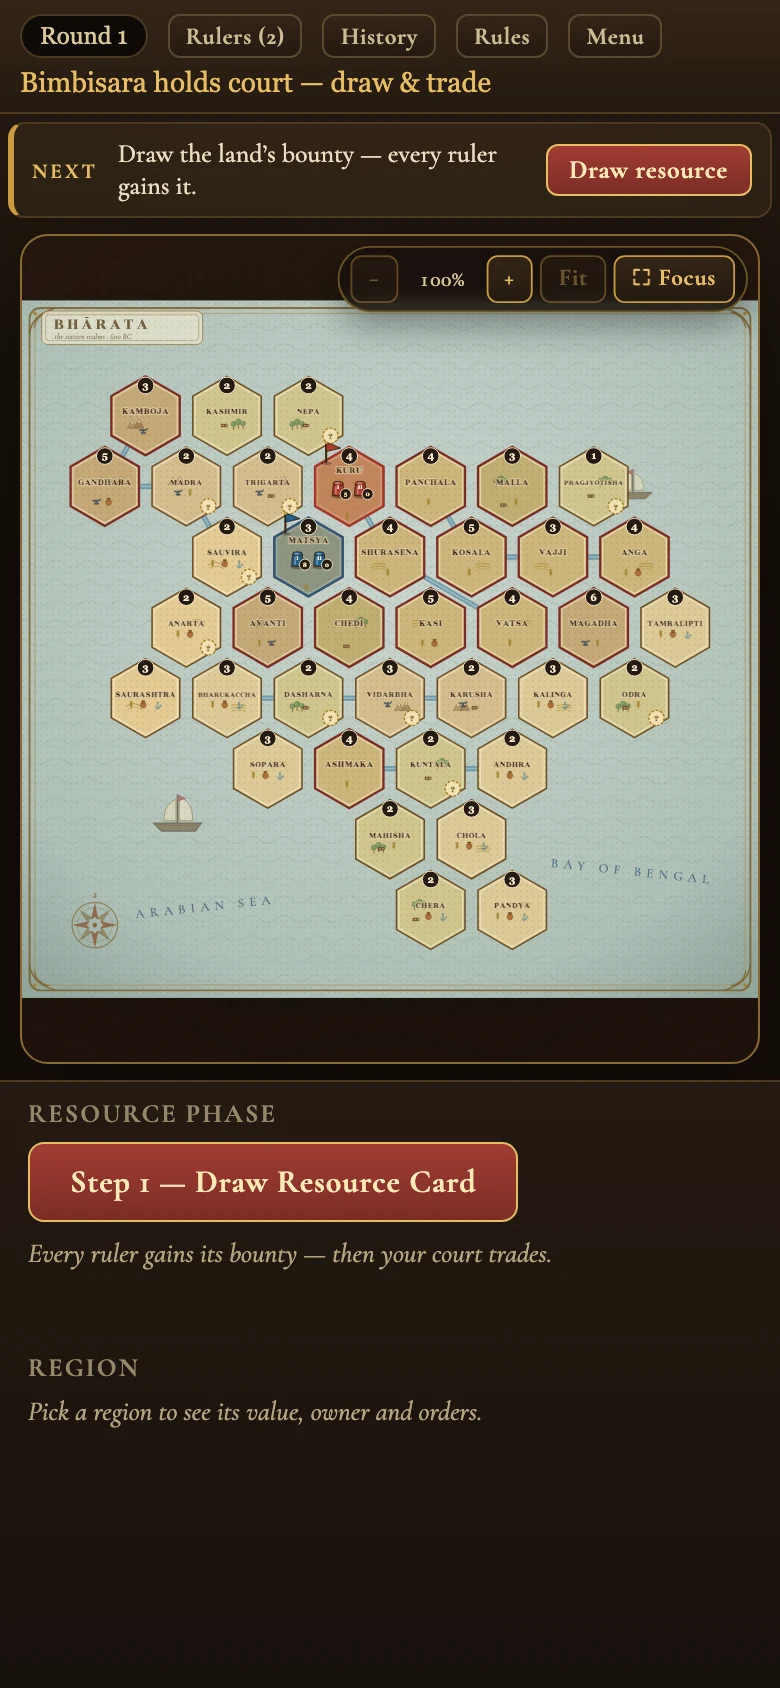
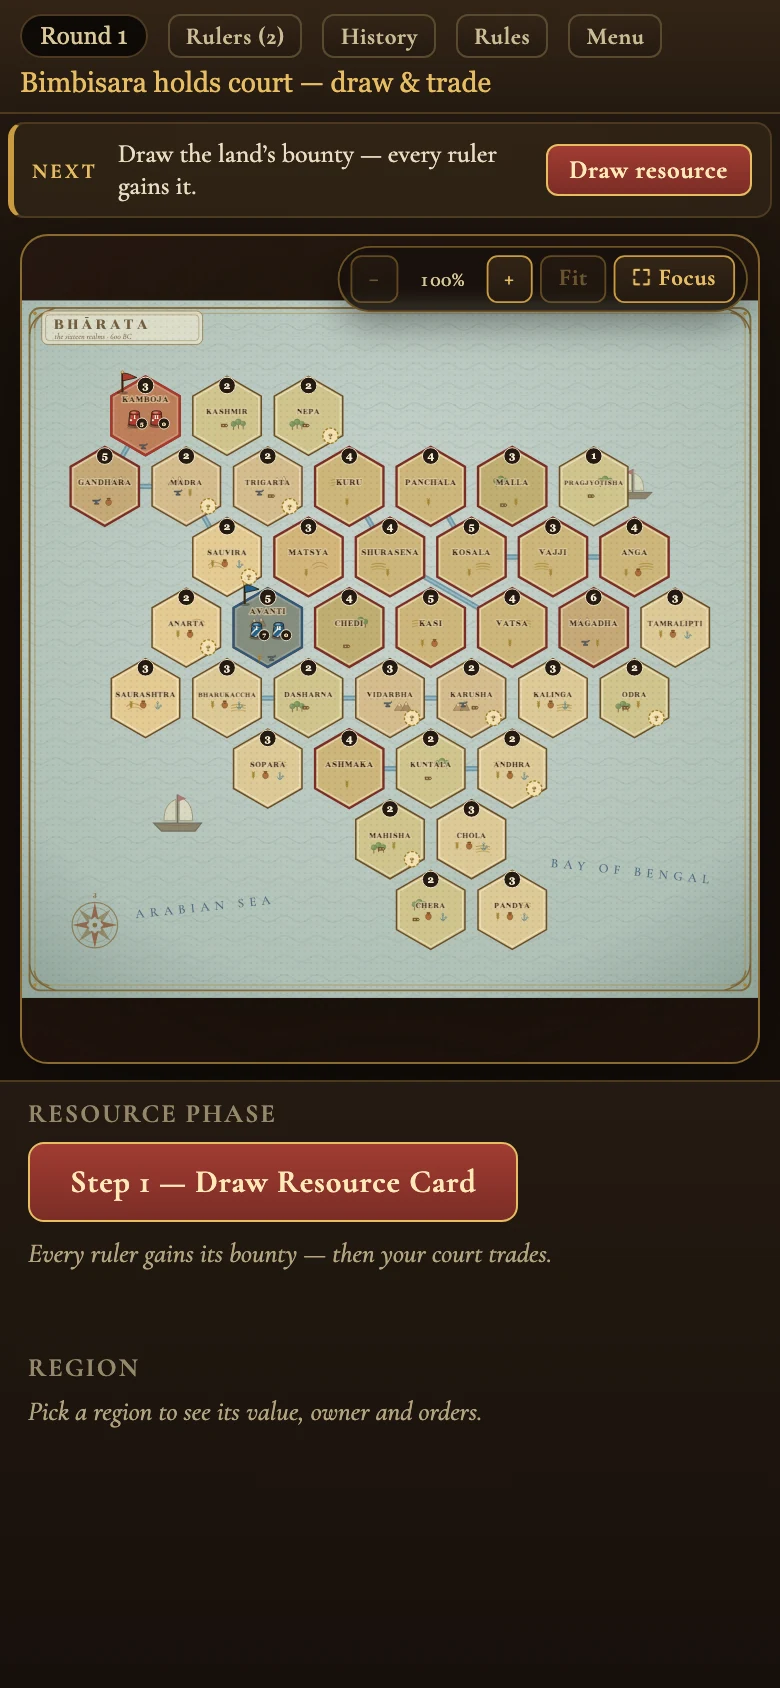
feat(a11y): seat patterns on pawns, co-rule clarity, H/? shortcuts
- eight bold pawn patterns; reduce specular stripe to a glint
- shared chip/kingdom line + rules section for co-ruled kingdoms
- fix army-cost and room-code guide text
- H history, ? rules, Esc closes; ignore inputs/modals
- regenerate visual sheet and screenshots; 15 journeys

Closes #43

diff --git a/client/ui/RulesGuide.tsx b/client/ui/RulesGuide.tsx
@@ -1,8 +1,17 @@
-import React from 'react'
+import React, { useEffect } from 'react'
 import { ABILITIES, PERSONALITIES } from '../../shared/data'
 import { Ico } from './icons'
 
 export function RulesGuide(props: { onClose?: () => void }) {
+  useEffect(() => {
+    if (!props.onClose) return
+    const onKey = (e: KeyboardEvent) => {
+      if (e.key === 'Escape') props.onClose?.()
+    }
+    window.addEventListener('keydown', onKey)
+    return () => window.removeEventListener('keydown', onKey)
+  }, [props.onClose])
+
   return (
     <div className="modal-backdrop" onClick={props.onClose}>
       <div className="modal rules-guide" onClick={(e) => e.stopPropagation()}>
@@ -22,7 +31,7 @@ export function RulesGuide(props: { onClose?: () => void }) {
           <li>
             <b>Resource</b> — draw & flip one resource card; <i>every</i> ruler gains what it grants. Then (only
             you): sell resources for coins (2 resources = 1 coin), sell trade objects for 2 coins each if you
-            rule an export harbor ⚓, and recruit army cards (3 coins each) into Army I or II.
+            rule an export harbor ⚓, and recruit army cards (2 coins each by default) into your army.
           </li>
           <li>
             <b>Actions</b> — take 2 free actions (extras cost 1 coin):
@@ -61,11 +70,12 @@ export function RulesGuide(props: { onClose?: () => void }) {
           <span>Mahajanapada = a Great Kingdom (paid in army cards) · Province = paid in coins</span>
         </p>
 
-        <h3>Your two armies</h3>
+        <h3>Your armies</h3>
         <p>
-          Each ruler commands two armies as separate battle hands — Army I starts with your two beginning
-          cards, Army II starts empty until you reinforce it. If an army loses all its cards it is destroyed,
-          and respawns at your capital when you reinforce it again. Lose your capital? Retake it first.
+          In a 2–4 ruler game each ruler commands two armies as separate battle hands — Army I starts with your
+          two beginning cards, Army II starts empty until you reinforce it. In a 5–8 ruler game partners co-rule
+          a kingdom and each commands one army. If an army loses all its cards it is destroyed, and respawns at
+          your capital when you reinforce it again. Lose your capital? Retake it first.
         </p>
 
         <h3>Your ruler (drafted at setup)</h3>
@@ -92,11 +102,24 @@ export function RulesGuide(props: { onClose?: () => void }) {
           ))}
         </div>
 
+        <h3>Co-ruled kingdoms (5–8 rulers)</h3>
+        <p>
+          At a table of five or more, rulers are paired into the four kingdoms. Co-rulers <b>share the realm</b>:
+          its territory, its forts and the right to conquer from it. Everything personal stays personal — your
+          coins, resources, army cards, armies, abilities and <b>victory points</b>. A conquest by either partner
+          expands the shared realm, but the VP belongs to the ruler who earned it; seizing a shared region steals
+          that ruler’s VP. The ruler cards mark this with a <b>shared</b> chip and name the partner.
+        </p>
+
         <h3>Play modes</h3>
         <p>
           <b>Same Screen</b> — pass one device around the table (2–8 rulers; with 5–8, partners co-rule a
-          kingdom, each commanding one army). <b>Online</b> — one ruler hosts a room, shares the 4-letter code,
-          and everyone plays live from their own browser.
+          kingdom, each commanding one army). <b>Online</b> — one ruler hosts a room, shares the 5-character
+          code, and everyone plays live from their own browser.
+        </p>
+        <p className="hint">
+          Shortcuts: <b>H</b> opens History, <b>?</b> opens this guide, <b>Esc</b> closes overlays. History is
+          searchable by ruler, round and kind; battle rows expand into the committed cards and a replay.
         </p>
         <p className="hint">Learn as you play — every screen tells you what to do next, and the Rules button is always in the top bar.</p>
 

diff --git a/client/ui/art.tsx b/client/ui/art.tsx
@@ -113,27 +113,64 @@ export function KingdomCrest(props: { seed: string; label?: string; size?: numbe
 
 // ---------------------------------------------------------------------------
 // Wooden army pawn — a Channapatna-style turned piece with a power badge.
+// Seat patterns make ownership readable without relying on colour.
 // ---------------------------------------------------------------------------
 
-export function Pawn(props: { color: string; label: string; power: number; scale?: number }) {
-  const { color, label, power, scale = 1 } = props
+const PAWN_BODY =
+  'M-7.1 9.8 C-7.1 4.4 -6.2 -1.4 -5.8 -4.4 L5.8 -4.4 C6.2 -1.4 7.1 4.4 7.1 9.8 C4.4 11.2 -4.4 11.2 -7.1 9.8 Z'
+
+export function PawnPatterns() {
+  const dark = { stroke: '#2b1c10', strokeWidth: 3, opacity: 0.28, fill: 'none' }
+  const light = { stroke: '#fff8e8', strokeWidth: 1.7, opacity: 0.92, fill: 'none' }
+  return (
+    <>
+      <pattern id="seatPat0" width="9" height="9" patternUnits="userSpaceOnUse">
+        <circle cx="4.5" cy="4.5" r="2.2" fill="#2b1c10" opacity="0.28" />
+        <circle cx="4.5" cy="4.5" r="1.5" fill="#fff8e8" opacity="0.92" />
+      </pattern>
+      <pattern id="seatPat1" width="9" height="9" patternUnits="userSpaceOnUse">
+        <path d="M0 9 L9 0" {...dark} />
+        <path d="M0 9 L9 0" {...light} />
+      </pattern>
+      <pattern id="seatPat2" width="9" height="9" patternUnits="userSpaceOnUse">
+        <path d="M0 4.5 H9 M4.5 0 V9" {...dark} />
+        <path d="M0 4.5 H9 M4.5 0 V9" {...light} />
+      </pattern>
+      <pattern id="seatPat3" width="9" height="9" patternUnits="userSpaceOnUse">
+        <path d="M2.5 0 V9" {...dark} />
+        <path d="M2.5 0 V9" {...light} />
+      </pattern>
+      <pattern id="seatPat4" width="9" height="9" patternUnits="userSpaceOnUse">
+        <path d="M0 2.5 H9" {...dark} />
+        <path d="M0 2.5 H9" {...light} />
+      </pattern>
+      <pattern id="seatPat5" width="9" height="9" patternUnits="userSpaceOnUse">
+        <path d="M0 2.5 L4.5 6.5 L9 2.5" {...dark} />
+        <path d="M0 2.5 L4.5 6.5 L9 2.5" {...light} />
+      </pattern>
+      <pattern id="seatPat6" width="9" height="9" patternUnits="userSpaceOnUse">
+        <path d="M0 0 H9 M0 4.5 H9 M0 9 H9" {...dark} />
+        <path d="M0 4.5 H9" {...light} />
+      </pattern>
+      <pattern id="seatPat7" width="9" height="9" patternUnits="userSpaceOnUse">
+        <circle cx="4.5" cy="4.5" r="2.9" fill="none" stroke="#2b1c10" strokeWidth="2.8" opacity="0.26" />
+        <circle cx="4.5" cy="4.5" r="2.4" fill="none" stroke="#fff8e8" strokeWidth="1.5" opacity="0.9" />
+      </pattern>
+    </>
+  )
+}
+
+export function Pawn(props: { color: string; label: string; power: number; scale?: number; pattern?: string }) {
+  const { color, label, power, scale = 1, pattern } = props
   return (
     <g transform={`scale(${scale})`}>
       {/* ground shadow */}
       <ellipse cx={0} cy={11} rx={9} ry={3.2} fill="rgba(38, 22, 8, 0.38)" />
       {/* turned body */}
-      <path
-        d="M-7.1 9.8 C-7.1 4.4 -6.2 -1.4 -5.8 -4.4 L5.8 -4.4 C6.2 -1.4 7.1 4.4 7.1 9.8 C4.4 11.2 -4.4 11.2 -7.1 9.8 Z"
-        fill={color}
-        stroke="#2b1c10"
-        strokeWidth={1.1}
-      />
-      {/* left-lit highlight */}
-      <path
-        d="M-3.9 8.8 C-4.2 4 -4 0 -3.4 -3.3 L-1.4 -3.3 C-2 -0.4 -2.2 3.8 -1.8 8.6 Z"
-        fill="rgba(255, 250, 235, 0.34)"
-        pointerEvents="none"
-      />
+      <path d={PAWN_BODY} fill={color} stroke="#2b1c10" strokeWidth={1.1} />
+      {pattern && <path d={PAWN_BODY} fill={`url(#${pattern})`} pointerEvents="none" />}
+      {/* small specular glint; the seat pattern carries the texture */}
+      <ellipse cx={-3.2} cy={-1.2} rx={1.1} ry={3.2} fill="rgba(255, 250, 235, 0.22)" pointerEvents="none" />
       {/* top knob */}
       <ellipse cx={0} cy={-4.6} rx={6} ry={2.7} fill={color} stroke="#2b1c10" strokeWidth={1} />
       <ellipse cx={-1} cy={-5} rx={3.2} ry={1.2} fill="rgba(255, 250, 235, 0.4)" pointerEvents="none" />

diff --git a/client/ui/Game.tsx b/client/ui/Game.tsx
@@ -94,6 +94,25 @@ export function Game(props: {
   }, [error])
 
   useEffect(() => {
+    const onKey = (e: KeyboardEvent) => {
+      if (e.defaultPrevented || e.metaKey || e.ctrlKey || e.altKey) return
+      const el = e.target as HTMLElement | null
+      if (el && (el.tagName === 'INPUT' || el.tagName === 'TEXTAREA' || el.tagName === 'SELECT' || el.isContentEditable)) return
+      if (document.querySelector('.modal-backdrop')) return
+      if (e.key === 'h' || e.key === 'H') {
+        e.preventDefault()
+        setShowHistory(true)
+      }
+      if (e.key === '?') {
+        e.preventDefault()
+        setShowHelp(true)
+      }
+    }
+    window.addEventListener('keydown', onKey)
+    return () => window.removeEventListener('keydown', onKey)
+  }, [])
+
+  useEffect(() => {
     if (!showRulers) return
     const onKey = (e: KeyboardEvent) => {
       if (e.key === 'Escape') setShowRulers(false)
@@ -357,10 +376,10 @@ export function Game(props: {
         <button className="small ghost mobile-only" aria-expanded={showRulers} onClick={() => setShowRulers((v) => !v)}>
           Rulers ({Object.keys(state.seats).length})
         </button>
-        <button className="small ghost" onClick={() => setShowHistory(true)}>
+        <button className="small ghost" onClick={() => setShowHistory(true)} title="History (H)">
           History
         </button>
-        <button className="small ghost" onClick={() => setShowHelp(true)}>
+        <button className="small ghost" onClick={() => setShowHelp(true)} title="Rules (?)">
           Rules
         </button>
         <button
@@ -490,7 +509,7 @@ export function Game(props: {
               <br />
               {[
                 ['●', 'black disc = region value (VP = conquer cost = terrain bonus, max +3)'],
-                ['♟', 'wooden pawn = army (I/II, badge = power)'],
+                ['♟', 'wooden pawn = army (I/II, badge = power, pattern = ruler)'],
                 ['⭐', 'capital'], ['🚩', 'fort'], ['❓', 'hidden token'], ['⚓', 'harbor'], ['⭕', 'red discs = disasters'],
               ].map(([i, l]) => (
                 <span key={l} style={{ whiteSpace: 'nowrap', marginRight: 10 }}>
@@ -526,7 +545,11 @@ export function Game(props: {
                 <div
                   key={s.id}
                   className={`player-card ${active ? 'active' : ''} ${compact ? 'compact' : ''}`}
-                  title={coRulers.length ? `Co-ruled with ${coRulers.map((x) => x.name).join(', ')}` : undefined}
+                  title={
+                    coRulers.length
+                      ? `Co-ruled with ${coRulers.map((x) => x.name).join(', ')} — territory and forts are shared; resources, armies and VP are individual.`
+                      : undefined
+                  }
                 >
                   <div className="pc-head">
                     <span className="pc-order" title={`Turn order ${seatIndex + 1}`}>
@@ -536,7 +559,10 @@ export function Game(props: {
                     <span className="pc-name">{s.name}</span>
                     {s.id === mySeatId && <span className="pc-you">you</span>}
                     {coRulers.length > 0 && (
-                      <span className="pc-co" title={`Co-ruled with ${coRulers.map((x) => x.name).join(', ')}`}>
+                      <span
+                        className="pc-co"
+                        title={`Co-ruled with ${coRulers.map((x) => x.name).join(', ')} — territory and forts are shared; resources, armies and VP are individual.`}
+                      >
                         shared
                       </span>
                     )}

diff --git a/scripts/artifacts.ts b/scripts/artifacts.ts
@@ -14,7 +14,7 @@ import fs from 'node:fs'
 import os from 'node:os'
 import path from 'node:path'
 import { execFileSync } from 'node:child_process'
-import { KingdomCrest, Pawn, Ship, TerrainMotif, VpTrack } from '../client/ui/art'
+import { KingdomCrest, Pawn, PawnPatterns, Ship, TerrainMotif, VpTrack } from '../client/ui/art'
 import { Ico } from '../client/ui/icons'
 
 const BASE = process.env.BASE || 'http://localhost:5173'
@@ -204,12 +204,6 @@ async function renderVisualSheet() {
   const crests = ['k0', 'k1', 'k2', 'k3', 'k4', 'k5', 'k6', 'k7']
   const crestNames = ['Trident · Kashi', 'Lotus · Kosala', 'Elephant · Magadha', 'Horse · Avanti', 'Bull · Vatsa', 'Sun · Shurasena', 'Bow · Panchala', 'Chakra · Kuru']
 
-  const pawns = colors
-    .map((c, i) =>
-      svgWrap(renderToStaticMarkup(React.createElement(Pawn, { color: c, label: i < 4 ? 'I' : 'II', power: 4 + i })), '-20 -18 40 36', 64, 58),
-    )
-    .join('')
-
   const terrains = (['forest', 'hills', 'fields', 'dunes'] as const)
     .map((k) => svgWrap(renderToStaticMarkup(React.createElement(TerrainMotif, { kind: k, x: 0, y: 2 })), '-24 -20 48 36', 82, 62))
     .join('')
@@ -220,8 +214,14 @@ async function renderVisualSheet() {
     )
     .join('')
 
+  const pawnDefs = renderToStaticMarkup(React.createElement(PawnPatterns))
   const pawnRow = colors
-    .map((c, i) => `<figure class="pawn"><div class="pawn-art">${svgWrap(renderToStaticMarkup(React.createElement(Pawn, { color: c, label: i % 2 ? 'II' : 'I', power: 5 })), '-20 -18 40 36', 74, 64)}</div><figcaption>Seat ${i + 1}</figcaption></figure>`)
+    .map((c, i) => {
+      const art = renderToStaticMarkup(
+        React.createElement(Pawn, { color: c, label: i % 2 ? 'II' : 'I', power: 5, pattern: `seatPat${i}` }),
+      )
+      return `<figure class="pawn"><div class="pawn-art">${svgWrap(`<defs>${pawnDefs}</defs>${art}`, '-20 -18 40 36', 74, 64)}</div><figcaption>Seat ${i + 1}</figcaption></figure>`
+    })
     .join('')
 
   const terrainRow = (['forest', 'hills', 'fields', 'dunes'] as const)

diff --git a/client/ui/Board.tsx b/client/ui/Board.tsx
@@ -2,7 +2,7 @@ import React, { useCallback, useEffect, useMemo, useRef, useState } from 'react'
 import { HEX_SIZE, REGIONS, RIVER_PATHS, hexCenter, hexPolygon } from '../../shared/data'
 import type { GameState } from '../../shared/types'
 import { EVENT_GLYPHS, ICON_SHAPES, type IconKind } from './icons'
-import { Pawn, Ship, TerrainMotif, type TerrainKind } from './art'
+import { Pawn, PawnPatterns, Ship, TerrainMotif, type TerrainKind } from './art'
 import type { GameFx } from './fx'
 
 type Box = { x: number; y: number; w: number; h: number }
@@ -274,6 +274,7 @@ export const Board = React.memo(function Board(props: {
           <feTurbulence type="fractalNoise" baseFrequency="0.012 0.015" numOctaves="3" seed="7" stitchTiles="stitch" result="w" />
           <feDisplacementMap in="SourceGraphic" in2="w" scale="6" />
         </filter>
+        <PawnPatterns />
         <radialGradient id="badge" cx="35%" cy="30%" r="80%">
           <stop offset="0%" stopColor="#a84a38" />
           <stop offset="100%" stopColor="#6e1f14" />
@@ -480,7 +481,13 @@ export const Board = React.memo(function Board(props: {
                   transform={`translate(${c.x + spread}, ${c.y + 1})`}
                   pointerEvents="none"
                 >
-                  <Pawn color={seatColor(a.seatId)} label={a.armyId === 1 ? 'I' : 'II'} power={power} scale={1.06} />
+                  <Pawn
+                    color={seatColor(a.seatId)}
+                    label={a.armyId === 1 ? 'I' : 'II'}
+                    power={power}
+                    scale={1.06}
+                    pattern={`seatPat${(Number(a.seatId.replace(/\D/g, '')) || 0) % 8}`}
+                  />
                 </g>
               )
             })}

diff --git a/e2e/shortcuts.spec.ts b/e2e/shortcuts.spec.ts
@@ -1,0 +1,35 @@
+import { test, expect, type Page } from '@playwright/test'
+
+async function draftAll(page: Page) {
+  for (const personality of ['Iron Raja', 'Merchant Prince']) {
+    await page.waitForSelector('text=Shape your Ruler')
+    await page.locator('.modal').getByText(personality).first().click()
+    await page.locator('.modal').getByText('Vaidya').first().click()
+    await page.locator('.modal').getByText('Shipwright').first().click()
+    await page.getByText('Take the Throne').click()
+    await page.waitForTimeout(150)
+  }
+  const handoff = page.locator('.modal-backdrop .primary', { hasText: 'I am ' })
+  if (await handoff.count()) {
+    await handoff.click()
+    await page.waitForTimeout(150)
+  }
+}
+
+test('H opens history and ? opens the rules', async ({ page }) => {
+  await page.goto('/')
+  await page.getByRole('button', { name: /Same Screen/ }).click()
+  await page.locator('select').first().selectOption('2')
+  await page.getByText('Begin the Age').click()
+  await draftAll(page)
+
+  await page.keyboard.press('h')
+  await expect(page.locator('.history-modal')).toBeVisible()
+  await page.keyboard.press('Escape')
+  await expect(page.locator('.history-modal')).toBeHidden()
+
+  await page.keyboard.press('?')
+  await expect(page.getByText(/How to play Bharata/)).toBeVisible()
+  await page.keyboard.press('Escape')
+  await expect(page.getByText(/How to play Bharata/)).toBeHidden()
+})

diff --git a/e2e/layout.spec.ts b/e2e/layout.spec.ts
@@ -63,6 +63,9 @@ for (const vp of [
     await page.locator('.army-box').first().click()
     await page.waitForTimeout(200)
     expect(await boardSize(page)).toBe(base)
+    // deselect the army so clicking a region only inspects it (no random battle)
+    await page.locator('.army-box').first().click()
+    await page.waitForTimeout(120)
     await page.locator('g.region').nth(6).click()
     await page.waitForTimeout(200)
     expect(await boardSize(page)).toBe(base)

diff --git a/README.md b/README.md
@@ -74,7 +74,10 @@ The **visual language** sheet shows how the digital cues map to the physical pie
 - **Survives real life** — same-screen games resume after a refresh; online seats rejoin.
 - **Playable on phones** — responsive menu and setup, a Rulers drawer, zoomable board.
 - **Keyboard and screen-reader support** — arrow keys walk the hex lattice, Enter selects, Esc
-  clears; regions and the chronicle are announced.
+  clears; regions and the chronicle are announced. In-game shortcuts: **H** History, **?** Rules.
+- **Colour-blind-safe armies** — every army pawn carries a seat pattern as well as colour, and
+  player cards keep a crest + turn-order chip. Co-ruled kingdoms are marked **shared** and explain
+  what is shared (territory, forts) versus personal (resources, armies, VP).
 
 ---
 
@@ -136,7 +139,7 @@ turn).
 | Physical component | Web adaptation |
 | --- | --- |
 | Painted map of ancient India | 38-region hex atlas (16 Mahajanapadas + provinces) with terrain derived from each region's yields, rivers, harbours, ships and sea labels |
-| Handmade Channapatna armies | Wooden-pawn pieces in seat colours with an army numeral and a dark power badge |
+| Handmade Channapatna armies | Wooden-pawn pieces with a seat colour **and a seat pattern**, an army numeral and a dark power badge |
 | Player trackers with peg holes | Ruler cards with a kingdom crest and a drilled VP track |
 | Black value discs / blue harbour markers / red disaster tokens | Region value badges, harbour trade accents, disaster tokens; gold `?` marks hidden tokens |
 | Army cards, personality cards, prize deck | Gold-framed parchment cards, personality emblems, wax-seal reveals |
@@ -194,7 +197,7 @@ scripts/   simulations, playtest invariants, perf budget, artifact generation
 
 ```bash
 npm run typecheck        # TypeScript, no emit
-npm run test:ui          # 14 Playwright journeys (hot-seat, online, conquer, economy, guidance,
+npm run test:ui          # 15 Playwright journeys (hot-seat, online, conquer, economy, guidance,
                          # accessibility, resume, setup, board geometry, history, perspective)
 npm run e2e              # socket-level network/e2e checks
 npm run sim              # simulated full games + rule assertions
